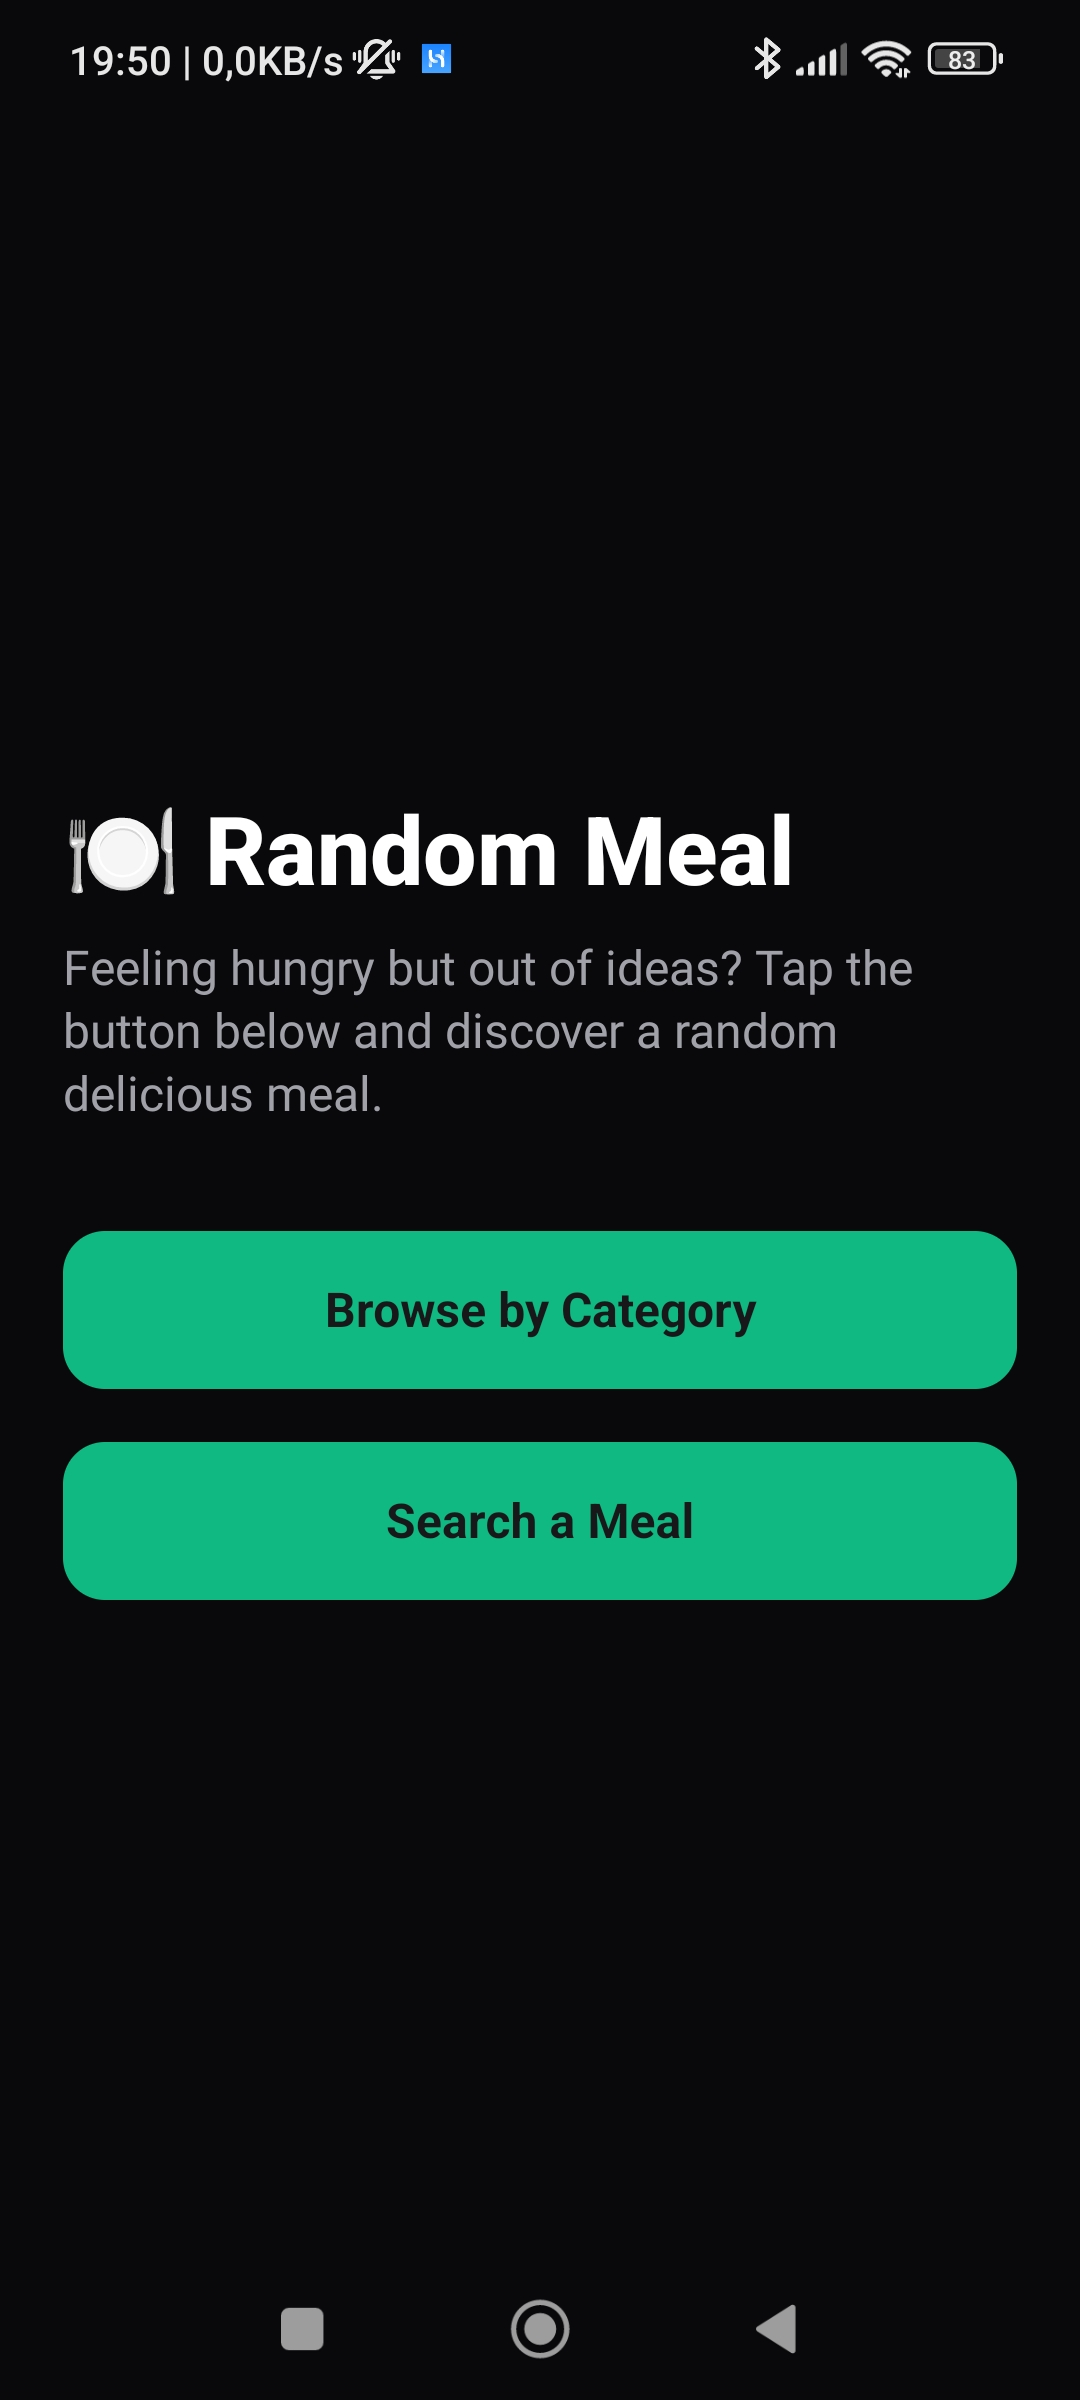
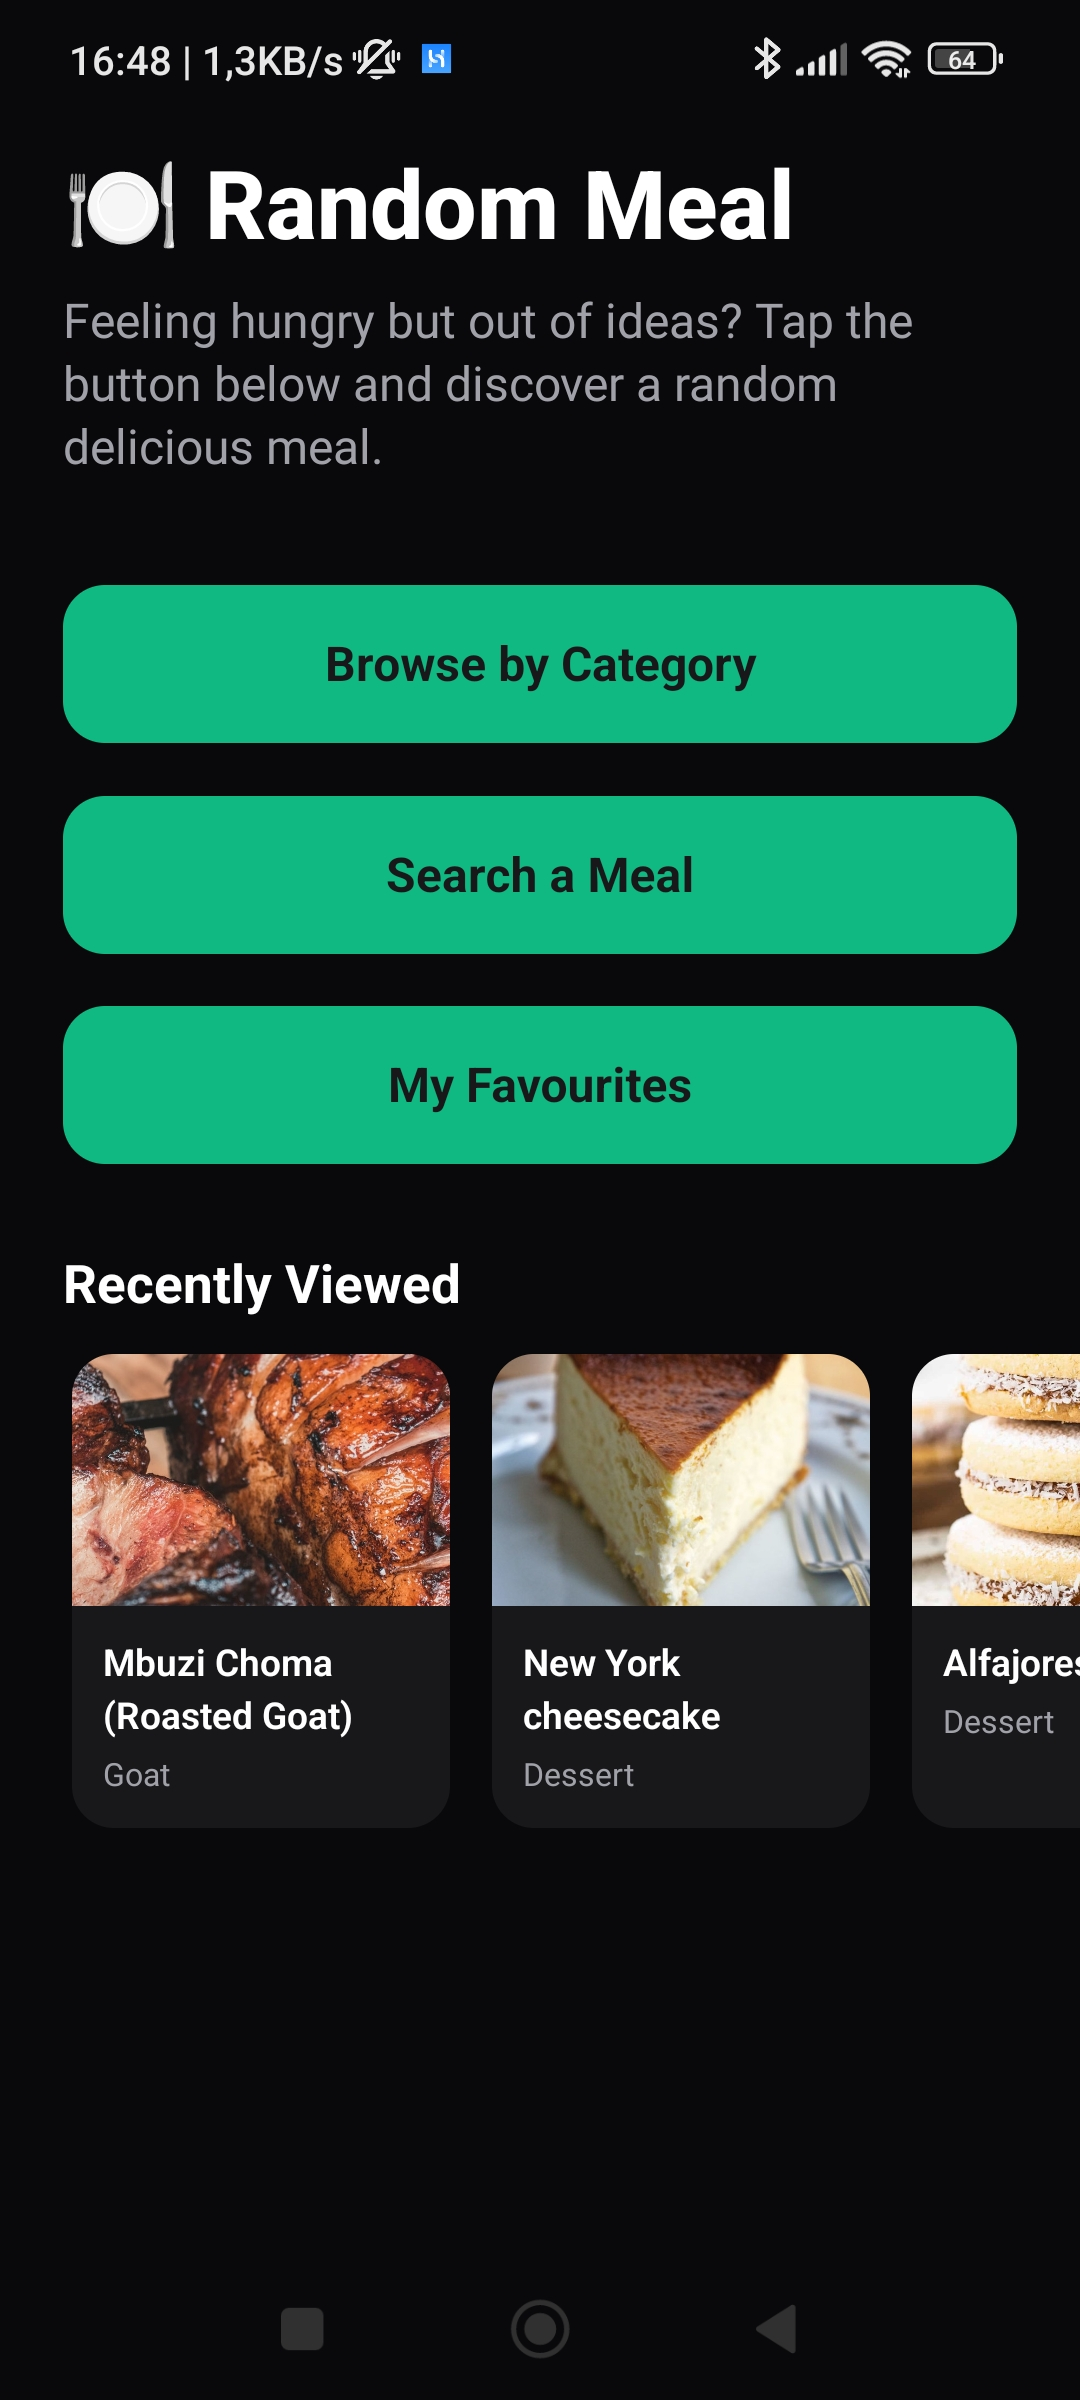
Update README features and app screenshots

diff --git a/README.md b/README.md
@@ -7,11 +7,16 @@ A mobile app built with **React Native + Expo + TypeScript** that lets you disco
 ## Features
 
 - Generate a **random meal** with full details.
-- **Filter meals** by category (e.g., Vegan, Seafood, Meat).  
-- **Search meals** by name.  
-- View **ingredients, instructions, and YouTube videos** for each meal.  
-- Modern, responsive **UI with NativeWind (Tailwind CSS)**.  
-- Optimized for smooth scrolling with many meals.  
+- **Filter meals** by category (e.g., Seafood, Vegetarian, Meat).
+- **Search meals** by name.
+- Save meals to **favorites** (persisted locally).
+- View **recently viewed meals** for quick access.
+- **Offline support** for cached meals.
+- **Skeleton loaders** for a smooth loading experience.
+- View **ingredients, instructions, and YouTube videos**.
+- **Share meals** using the native share menu.
+- Modern, responsive **UI with NativeWind (Tailwind CSS)**.
+- Optimized performance for large meal lists.
 
 ---
 
